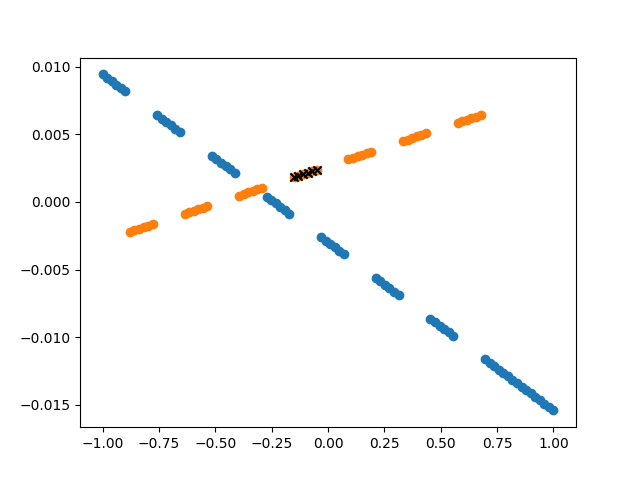
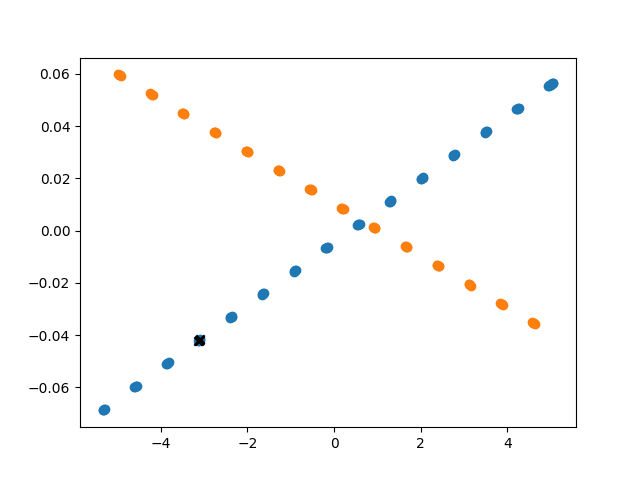
progress

diff --git a/liquid_jax/linear_predictors.py b/liquid_jax/linear_predictors.py
@@ -47,7 +47,7 @@ class Delegator(nn.Module):
         h = x 
         for feat in self.layer_sizes[:-1]:
             h = nn.Dense(features=feat)(h)
-            h = jax.nn.relu(h)
+            h = jnp.cos(h)
         
         return nn.Dense(features=self.layer_sizes[-1])(h)
 
@@ -130,29 +130,35 @@ def make_problem(
     n_regions: int,
     n_samples: int,
     n_validation_regions: int = 1,
-    x_range: tuple[float, float] = (-1, 1)
+    x_range: tuple[float, float] = (-1, 1),
+    x_gap: float = 0.3
 ):
     k_init, k_regions = jax.random.split(key)
+    k_stops, k_ids, k_val = jax.random.split(k_regions, 3)
+
+    region_counts = jnp.full((n_regions,), fill_value=(n_samples // n_regions))
+    region_counts = region_counts.at[-1].set(n_samples - region_counts[:-1].sum())
+    
+    region_indices = jnp.repeat(jnp.arange(n_regions), region_counts)
+    x = jnp.linspace(x_range[0], x_range[1], num=n_samples) + (region_indices * x_gap)
+    x = x - jnp.mean(x)
 
     predictors = PredictorEnsemble(n_models=n_linear_predictors)
-    x = jnp.linspace(x_range[0], x_range[1], num=n_samples)
     params = predictors.init(k_init, x)
     y_predictors = predictors.apply(params, x)
     
-    k_stops, k_ids = jax.random.split(k_regions)
-
     region_ids = jnp.arange(n_regions) % n_linear_predictors
-    region_counts = jnp.full((n_regions,), fill_value=(n_samples // n_regions))
-    region_counts = region_counts.at[-1].set(n_samples - region_counts[:-1].sum())
     regions = jnp.repeat(region_ids, region_counts)
     
     y = jnp.take_along_axis(y_predictors, regions[:, None], axis=1).squeeze(-1)
 
     inds = jnp.where(jnp.diff(regions) != 0)[0] + 1
     inds = jnp.concatenate((jnp.array([0]), inds, jnp.array([regions.size])))
-    val_region = (inds.size // 2) - 1
+    val_region = (inds.size // 2) - 9
     mask = jnp.zeros((regions.size,)).astype(jnp.int32)
     mask = mask.at[inds[val_region]:inds[val_region + 1]].set(1)
+
+    # mask = jax.random.bernoulli(k_val, p=0.3, shape=(n_samples,))
 
     return System(
         x=x,
@@ -162,7 +168,6 @@ def make_problem(
         params=params,
         val_mask=mask.astype(jnp.bool)
     )
-
 
 def one_sample_kl(combiner: jax.Array, individuals: jax.Array):
     kl_per_model = jax.scipy.special.kl_div(combiner[jnp.newaxis, :], individuals).sum(axis=-1)
@@ -179,13 +184,14 @@ def calculate_kl(combiner_logprobs: jax.Array, delegator_logprobs: jax.Array):
 def train_ensemble(
     system: System, 
     key: jax.Array,
-    n_delegators: int = 3, 
+    n_delegators: int = 5,   # how does this interact with the validation loss here
     preset_predictors: PredictorEnsemble | None = None,
     preset_predictors_params: dict | None = None, 
     n_chunks: int = 500,
     n_chunk_epochs: int = 200,
     delegator_layers: tuple[int, ...] = (32, 16),
-    lr: float = 1e-3
+    lr: float = 1e-3,
+    kl_weight: float =  0.0000
 ):
     model = MixtureEnsemble(n_predictors=system.predictors.n_models, n_delegators=n_delegators, delegator_layers=delegator_layers, preset_predictors=preset_predictors)
     
@@ -228,9 +234,9 @@ def train_ensemble(
                 loss = jnp.mean((y_hat - y)**2)
                 var_preds = jnp.mean(jnp.var(preds, axis=-1))
                 kl = calculate_kl(c_lp, d_lp)
-                return loss, (var_preds, kl)
+                return loss - kl_weight * kl, (loss, var_preds, kl)
             
-            (loss, (variance, kl)), grads = jax.value_and_grad(loss_fn, has_aux=True)(state.params)
+            (_, (loss, variance, kl)), grads = jax.value_and_grad(loss_fn, has_aux=True)(state.params)
             state = state.apply_gradients(grads=grads)
             
             y_hat, _, _, _, _ = model.apply({'params': state.params}, x_val)
@@ -258,9 +264,6 @@ def train_ensemble(
         hist_kl.extend(kl_arr.tolist())
 
     final_y_hat, final_weights, linear_preds, _, _ = model.apply({'params': state.params}, system.x)
-
-
-    print(linear_preds.shape)
 
 
     fig, axs = plt.subplots(2, 2, figsize=(14, 10))
@@ -303,13 +306,13 @@ if __name__ == "__main__":
     
 
     system = make_problem(
-        jax.random.key(808),
+        jax.random.key(129321093809),
         n_linear_predictors=2,
-        n_regions=15,
-        n_samples=100
+        n_regions=29,
+        n_samples=150
     )
 
-    # display_system(system)
+    display_system(system)
     
     
     train_ensemble(